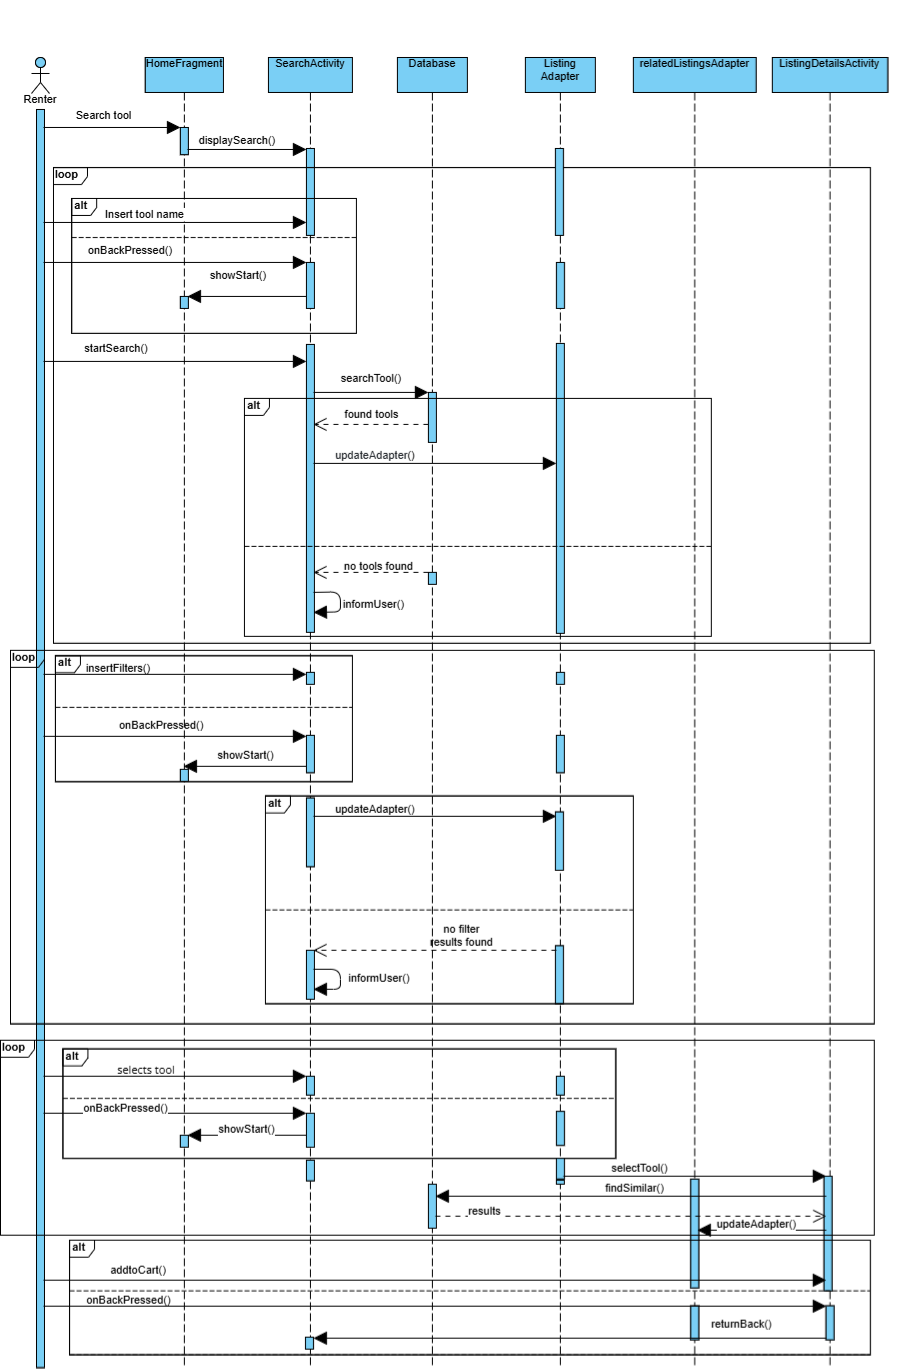
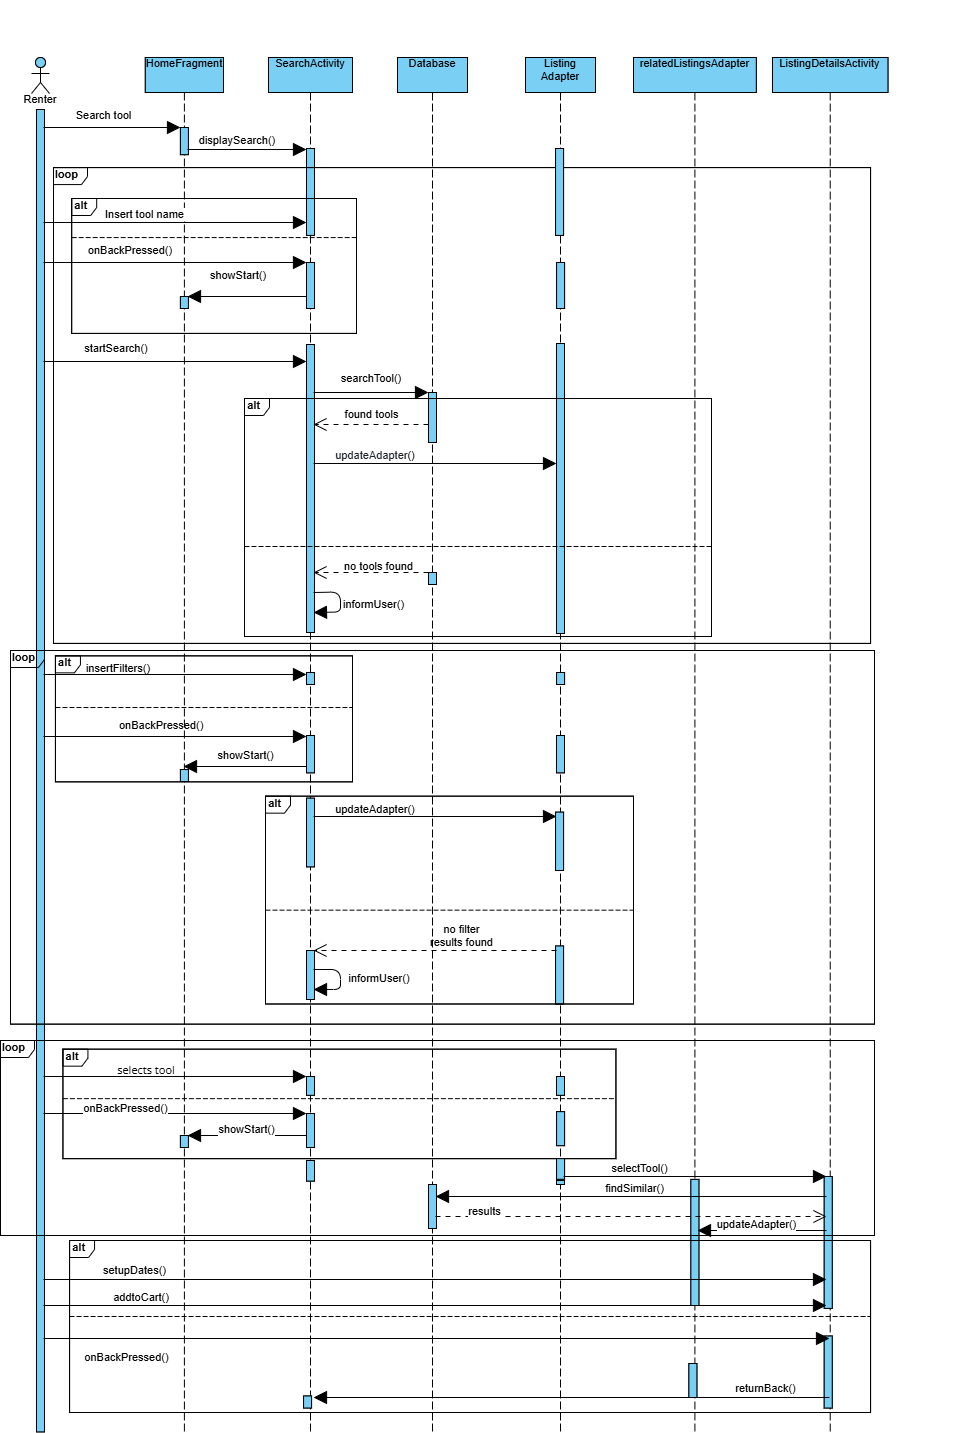
Added the dates in the rending

diff --git a/v0.3/UC_Payment/use_case.md b/v0.3/UC_Payment/use_case.md
@@ -5,7 +5,7 @@
 2. Το σύστημα μεταβιβάζει τον ενοικιαστή στο καλάθι αγορών
 3. Ο ενοικιαστής συμπληρώνει τη διεύθυνσή του και αριθμό κουπονιού
 4. Το σύστημα ελέγχει τα στοιχεία του κουπονιού στη βάση δεδομένων
-5. Το σύστημα υπολογίζει και εμφανίζει το συνολικό ποσό συμπεριλαμβανομένου του ΦΠΑ και των εξόδων αποστολής
+5. Το σύστημα υπολογίζει και εμφανίζει το συνολικό ποσό συμπεριλαμβανομένου του κουπουνιού και των εξόδων αποστολής
 6. Ο ενοικιαστής επιλέγει τη συνέχεια προς πληρωμή
 7. Το σύστημα μεταβιβάζει τον χρήστη στην πληρωμή και εμφανίζει επιλογές πληρωμής
 8. Ο ενοικιαστής επιλέγει τον τρόπο πληρωμής

diff --git a/v0.3/UC_search/use_case.md b/v0.3/UC_search/use_case.md
@@ -11,7 +11,7 @@
 8.  Ο ενοικιαστής επιλέγει να δει την πλήρη περιγραφή μιας αγγελίας από τη λίστα 
 9.  Το σύστημα εκτελεί αναζήτηση στη βάση δεδομένων για να βρει παρόμοια εργαλεία με το επιλεγμένο, βασιζόμενο στην περιγραφή του
 10. Το σύστημα εμφανίζει την πλήρη περιγραφή της επιλεχθείσας αγγελίας και τη λίστα με τις προτεινόμενες παρόμοιες αγγελίες 
-11. Ο ενοικιαστής προσθέτει την αγγελία που βλέπει στο καλάθι αγορών
+11. Ο ενοικιαστής επιλέγει ημερομηνίες και προσθέτει την αγγελία που βλέπει στο καλάθι αγορών
 
 Εναλλακτικές Ροές:
 1. Λάθος επιλογή (από βήμα 3, 6, 8 και 11 της βασικής)
